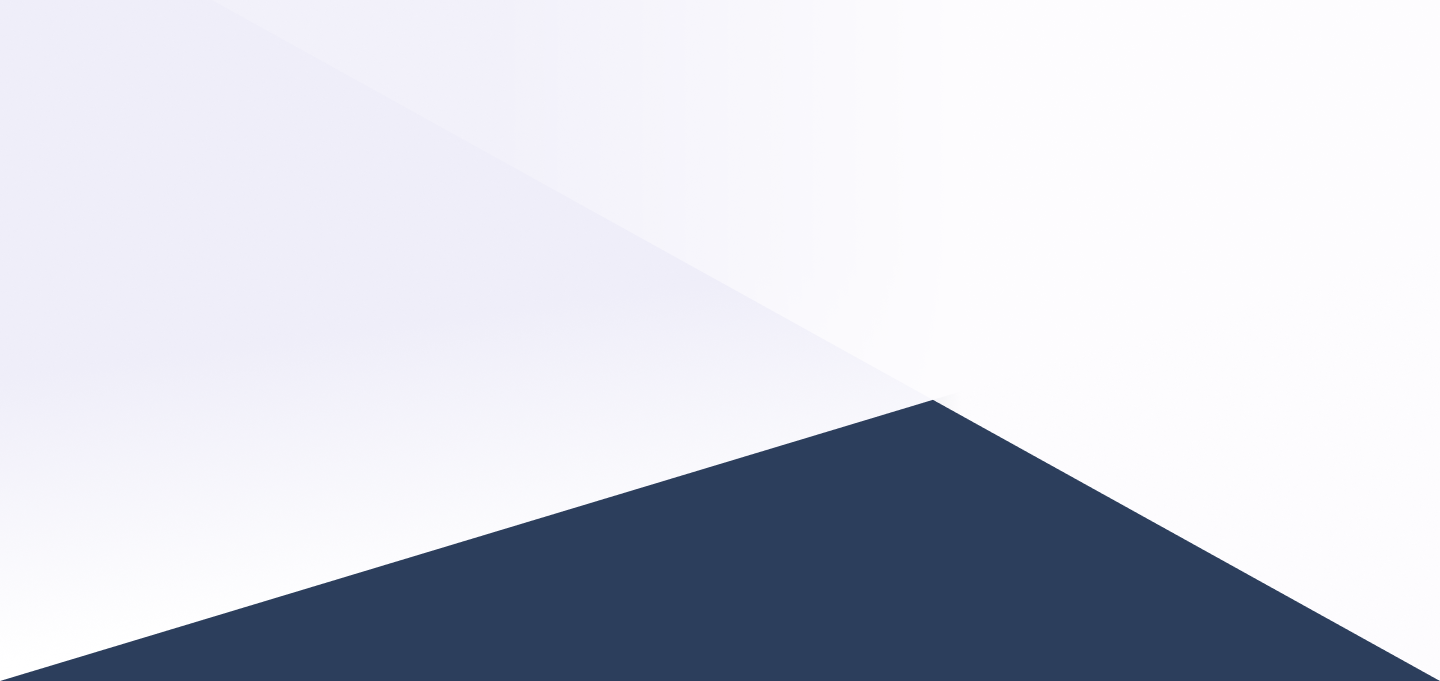
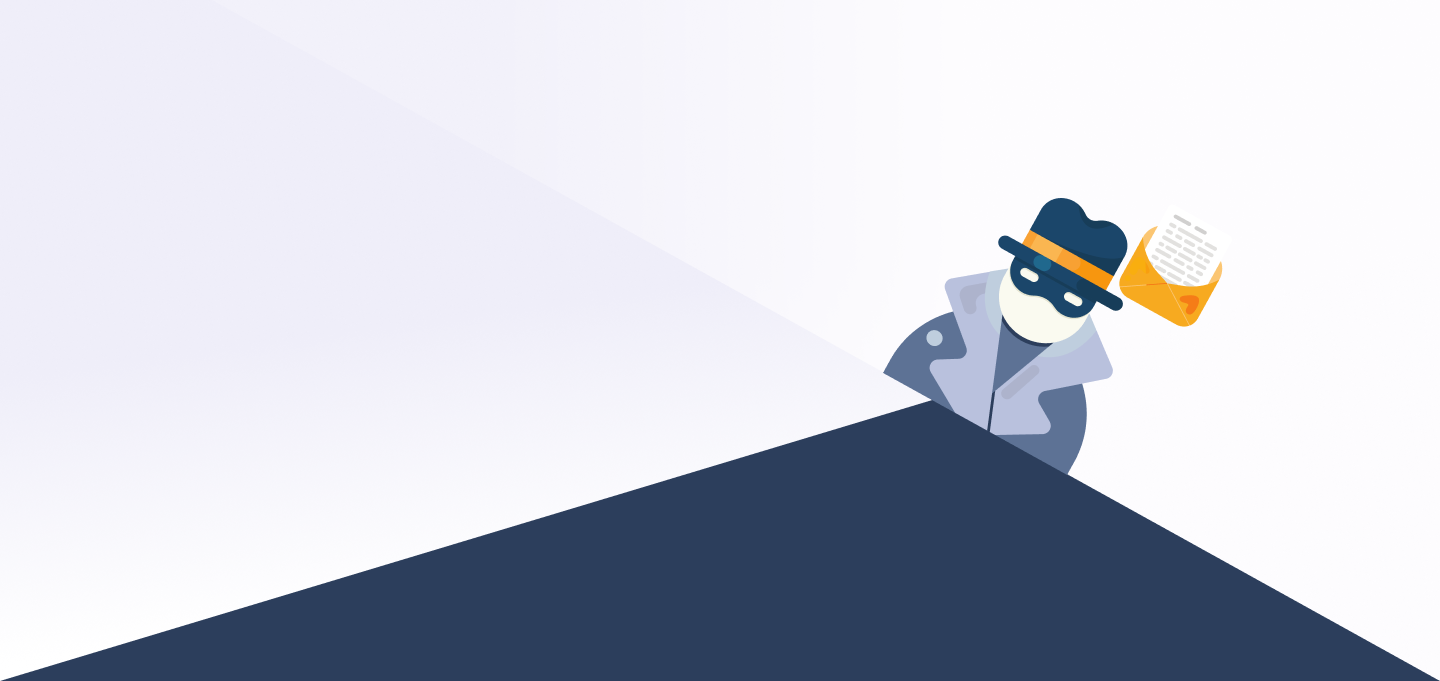
avance html buscadores

Changed region(s): [[0.5938, 0.2775, 0.8438, 0.7093]]

diff --git a/templates/buscador.html b/templates/buscador.html
@@ -1,0 +1,68 @@
+{% extends 'base/root.html' %}
+{% load static %}
+{% block extrastyle %}
+  <style>
+    section .portada-img {
+      top: auto;
+      bottom: 0;
+      max-width: 40vw;
+      opacity: 0.5;
+    }
+
+  </style>
+{% endblock %}
+{% block body %}
+  {#################  PORTADA  ################}
+  <section style="background-image: url('{% static 'project/img/landing.png' %}');background-size: cover; height: 100vh;" id="">
+    <div class="container h-100">
+      <div style=" padding: 300px 0 " class="position-relative h-100">
+        <div class="text-center">
+          <h1 style="color: #2C3E5C">{{ title }}</h1>
+          <div>
+            <p style="color: #5D616F; max-width: 60%; margin: auto">{{ description }}</p>
+          </div>
+          <div>
+            <div class="input-group" style="max-width: 60%; margin: auto">
+
+
+              <input class="form-control" placeholder="{{ placeholder }}" id="query" {% if not url_resultado %} maxlength="11" oninput="this.value=this.value.replace(/\D/g,'');"{% endif %}/>
+              <div class="input-group-append">
+              <span class="input-group-text" id="basic-addon2">
+                  <button tabindex="-1" class="btn btn-link" id="search"> <i
+                      class="fa fa-fw fa-search"></i></button>
+                </span>
+              </div>
+            </div>
+          </div>
+
+          {#        <button class="btn btn-warning text-white" style="padding: 2px 50px;">Estadísticas <br> Generales</button>#}
+        </div>
+        <img class="position-absolute portada-img" src="{% static img %}" alt="">
+      </div>
+
+    </div>
+  </section>
+{% endblock %}
+{% block extrajs %}
+  <script>
+    $(() => {
+      let $input = $('#query')
+
+      function buscar() {
+        let value = $input.val()
+        if (value !== '') {
+          {% if not url_resultado %}
+            window.location.href = '{% url 'perfil_empresa' '__pk__' %}'.replace('__pk__', value);
+          {% else %}
+            window.location.href = `{% url url_resultado %}?q=${value}`;
+          {% endif %}
+        }
+      }
+
+      $('#search').on('click', buscar)
+      $input.on('keyup', e => {
+        if (e.which === 13) buscar()
+      })
+    })
+  </script>
+{% endblock %}

diff --git a/templates/resultados.html b/templates/resultados.html
@@ -1,0 +1,68 @@
+{% extends 'base/root.html' %}
+{% load static %}
+{% block extrastyle %}
+  <style>
+    section .portada-img {
+      top: auto;
+      bottom: 0;
+      max-width: 40vw;
+      opacity: 0.5;
+    }
+
+  </style>
+{% endblock %}
+{% block body %}
+  {#################  PORTADA  ################}
+  <section style="background-image: url('{% static 'project/img/landing.png' %}');background-size: cover; height: 100vh;" id="">
+    <div class="container h-100">
+      <div style=" padding: 300px 0 " class="position-relative h-100">
+        <div class="text-center">
+          <h1 style="color: #2C3E5C">{{ title }}</h1>
+          <div>
+            <p style="color: #5D616F; max-width: 60%; margin: auto">{{ description }}</p>
+          </div>
+          <div>
+            <div class="input-group" style="max-width: 60%; margin: auto">
+
+
+              <input class="form-control" placeholder="{{ placeholder }}" id="query"/>
+              <div class="input-group-append">
+              <span class="input-group-text" id="basic-addon2">
+                  <button tabindex="-1" class="btn btn-link" id="search"> <i
+                      class="fa fa-fw fa-search"></i></button>
+                </span>
+              </div>
+            </div>
+          </div>
+
+          {#        <button class="btn btn-warning text-white" style="padding: 2px 50px;">Estadísticas <br> Generales</button>#}
+        </div>
+        <img class="position-absolute portada-img" src="{% static img %}" alt="">
+      </div>
+
+    </div>
+  </section>
+{% endblock %}
+{% block extrajs %}
+  <script>
+    $(() => {
+      let $input = $('#query')
+
+      function buscar() {
+        let value = $input.val()
+        if (value !== '') {
+          {% if not url_resultado %}
+            window.location.href = '{% url 'perfil_empresa' '__pk__' %}'.replace('__pk__', value);
+          {% else %}
+            window.location.href = `{% url url_resultado %}?q=${value}`;
+          {% endif %}
+        }
+      }
+
+      $('#search').on('click', buscar)
+      $input.on('keyup', e => {
+        if (e.which === 13) buscar()
+      })
+    })
+  </script>
+{% endblock %}

diff --git a/templates/base/root.html b/templates/base/root.html
@@ -14,7 +14,7 @@
     <!-- Google fonts-->
     <link href="https://fonts.googleapis.com/css?family=Montserrat:400,700" rel="stylesheet" type="text/css"/>
     <link href="https://fonts.googleapis.com/css?family=Lato:400,700,400italic,700italic" rel="stylesheet" type="text/css"/>
-    <link href="https://fonts.googleapis.com/css?family=Poppins:400,700,900" rel="stylesheet" type="text/css"/>
+    <link href="https://fonts.googleapis.com/css2?family=Poppins:ital,wght@0,100;0,200;0,300;0,400;0,500;0,600;0,700;0,800;0,900;1,100;1,200;1,300;1,400;1,500;1,600;1,700;1,800;1,900&display=swap" rel="stylesheet">
     <link href="https://fonts.googleapis.com/css2?family=Pathway+Gothic+One&display=swap" rel="stylesheet"/>
     <!-- Core theme CSS (includes Bootstrap)-->
     <link href="{% static 'project/css/styles.css' %}" rel="stylesheet"/>
@@ -71,6 +71,11 @@
     <script src="{% static 'project/lib/jquery/jquery-3.6.0.min.js' %}"></script>
     <!-- Core theme JS-->
     <script src="{% static 'project/js/scripts.js' %}"></script>
+    <script>
+      $(()=>{
+
+      })
+    </script>
     {% block extrajs %}{% endblock %}
   </body>
 </html>

diff --git a/static/project/css/custom-styles.css b/static/project/css/custom-styles.css
@@ -1,6 +1,53 @@
-.section-title{
+.section-title {
   color: #2C3E5C;
 }
-.section-title-dark{
+
+.section-title-dark {
   color: white;
+}
+
+.form-control:focus {
+  border-color: #ced4da;
+  box-shadow: none;
+}
+
+.input-group input, .input-group .input-group-text {
+  border-radius: 20px;
+  border: none
+}
+
+.input-group {
+  box-shadow: 0 4px 4px 0 rgba(0, 0, 0, 0.25);
+  -webkit-box-shadow: 0 4px 4px 0 rgba(0, 0, 0, 0.25);
+  -moz-box-shadow: 0 4px 4px 0 rgba(0, 0, 0, 0.25);
+  border-radius: 20px;
+}
+
+.input-group input {
+  border-right: 0;
+  padding: 0 1.45rem;
+}
+
+.input-group input::placeholder { /* Chrome, Firefox, Opera, Safari 10.1+ */
+  color: #A09F96;
+}
+
+.input-group-append .input-group-text {
+  border-top-left-radius: 0;
+  border-bottom-left-radius: 0;
+  border-left: 0;
+  background-color: white;
+  padding: 0.075rem 0.275rem;
+}
+
+.input-group-append .input-group-text .btn-link {
+  color: #A09F96;
+}
+
+.input-group-append .input-group-text .btn-link:hover {
+  color: black;
+}
+
+.input-group-append .input-group-text .btn-link:focus {
+  box-shadow: none;
 }

diff --git a/templates/base/top_navbar.html b/templates/base/top_navbar.html
@@ -1,6 +1,6 @@
 <nav class="navbar navbar-expand-lg fixed-top" style="background-color: #2C3E5C;" id="mainNav">
   <div class="container">
-    <a class="navbar-brand" style="font-weight: 700" href="#">ETDLP</a>
+    <a class="navbar-brand" style="font-weight: 700" href="{% url 'main_page' %}">ETDLProveedores</a>
     <button class="navbar-toggler text-uppercase font-weight-bold bg-primary text-white rounded" type="button" data-bs-toggle="collapse" data-bs-target="#navbarResponsive" aria-controls="navbarResponsive" aria-expanded="false" aria-label="Toggle navigation">
       Menu
       <i class="fas fa-bars"></i>

diff --git a/static/project/css/styles.css b/static/project/css/styles.css
@@ -236,11 +236,11 @@ sup {
 }
 
 a {
-  color: #1abc9c;
+  /*color: #1abc9c;*/
   text-decoration: underline;
 }
 a:hover {
-  color: #15967d;
+  /*color: #15967d;*/
 }
 
 a:not([href]):not([class]), a:not([href]):not([class]):hover {
